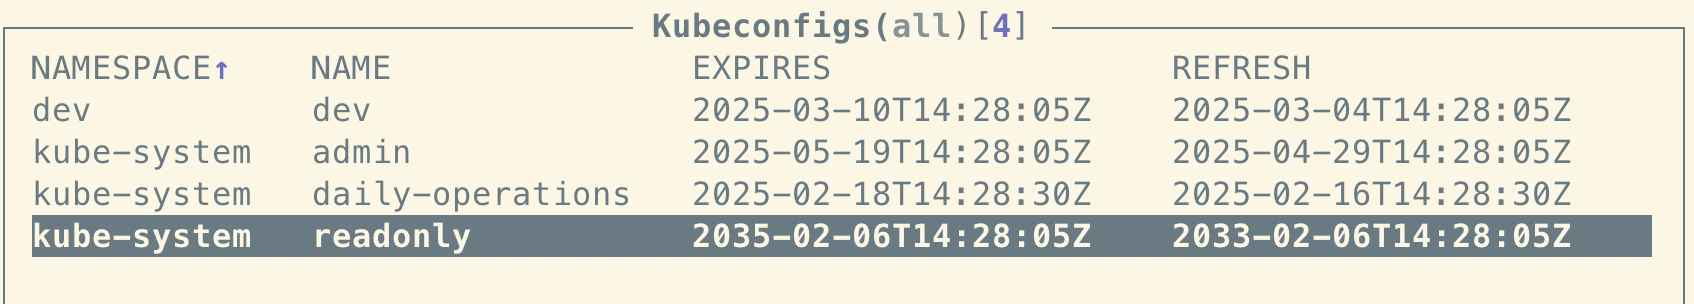
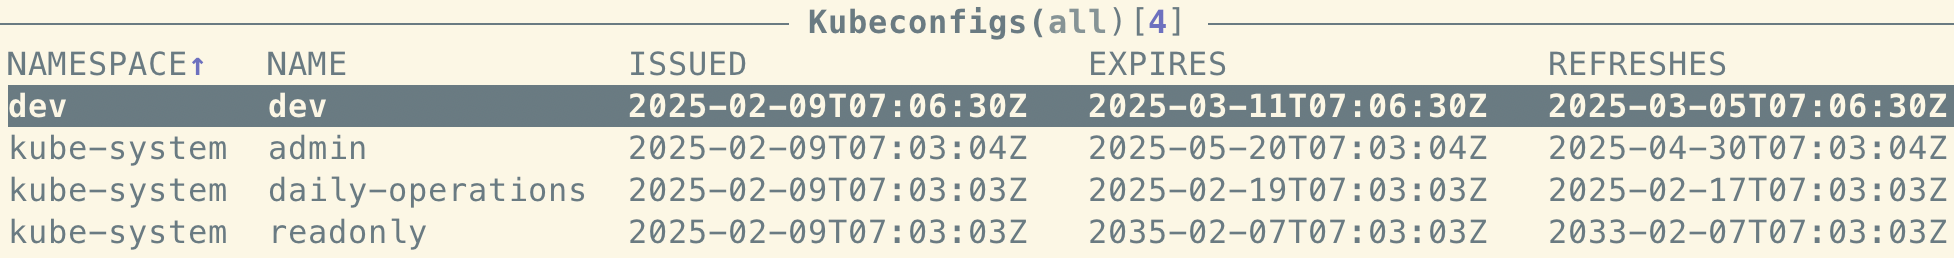
update docs

diff --git a/README.md b/README.md
@@ -1,5 +1,10 @@
 ![Docker Build and Push](https://github.com/klaudworks/kubeconfig-operator/actions/workflows/build-push.yaml/badge.svg) ![Lint and Test](https://github.com/klaudworks/kubeconfig-operator/actions/workflows/lint-test.yaml/badge.svg)![Last commit](https://badgen.net/github/last-commit/klaudworks/kubeconfig-operator) ![MIT License](https://badgen.net/static/license/MIT/blue) 
 
+
+<div align="center">
+  <img src="docs/images/printer-columns.png" alt="Printer Columns" style="width:100%;">
+</div>
+
 # Kubeconfig Operator
 
 This controller implements a `Kubeconfig` custom resource to generate a kubeconfig file with a specified set of permissions.
@@ -17,9 +22,10 @@ Install the newest version operator:
 kubectl apply -k "github.com/klaudworks/kubeconfig-operator/manifests/base?ref=main"
 ```
 
-Then, apply the following `Kubeconfig`:
+Then, apply the following sample `Kubeconfig` by executing the following command: 
 
 ```yaml
+cat <<EOF | kubectl apply -f -
 apiVersion: klaud.works/v1alpha1
 kind: Kubeconfig
 metadata:
@@ -59,15 +65,16 @@ spec:
       - get
       - list
       - watch
+EOF
 ```
 
-After applying the Kubeconfig custom resource, you can view it's expiration and refresh time.
+After applying the Kubeconfig custom resource, you can view it's issue, expiration and refresh timestamp.
 
-<div align="center">
-  <img src="docs/images/printer-columns.png" alt="Printer Columns" style="width:100%;">
-</div>
+```bash
+kubectl get kubeconfigs -A
+```
 
-Extract and store your kubeconfig from the secret it is stored in:
+Extract and store the actual kubeconfig yaml file from the secret that is created:
 
 ```bash
 kubectl get secret restricted-access -o jsonpath="{.data.kubeconfig}" | base64 --decode > restricted-access-kubeconfig.yaml
